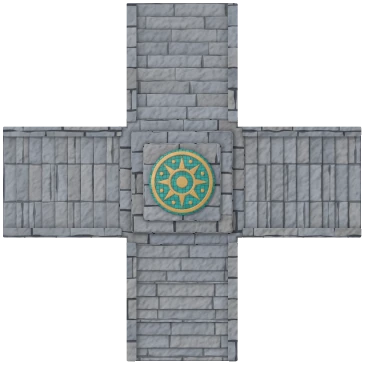
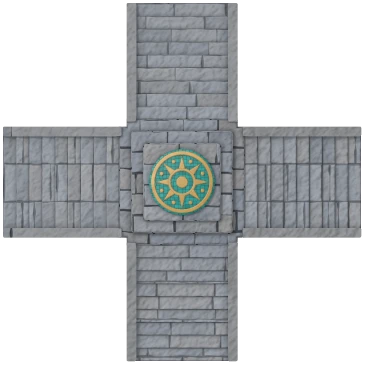
Mexica: the palace's stair walls in plain rough stone, without joints

diff --git a/games/mexica-ui/src/lib/board/palaceLight.ts b/games/mexica-ui/src/lib/board/palaceLight.ts
@@ -43,8 +43,9 @@ const STONE = {
 const COURSING: Coursing = { shortest: 10, longest: 16, row: 7, joint: 0.45, round: 0.9 }
 // A step's tread laid in long slabs.
 const TREADS: Coursing = { shortest: 13, longest: 20, row: 12.5, joint: 0.45, round: 0.9 }
-// A step's riser: one rough stone the width of the stair, so no joint chops the steps up.
-const RISERS: Coursing = { shortest: 200, longest: 200, row: 12.5, joint: 0.45, round: 0.9 }
+// Rough stone with no joints, for the steps' risers and the stair walls: blocks longer than
+// the palace, so no joint chops them up.
+const ROUGH: Coursing = { shortest: 300, longest: 300, row: 300, joint: 0.45, round: 0.9 }
 
 const BRONZE = { light: linear('#d6ab5e'), dark: linear('#6b4b22'), shine: 0.35 }
 const TURQUOISE = { light: linear('#2fb3ad'), dark: linear('#13706e'), grout: linear('#3a3226') }
@@ -105,7 +106,7 @@ function sunRelief(p: Vec): number {
 const WALL = { width: 3.2, above: 0.8, foot: 1.6 }
 const SIDE = CELL / 2 - PALACE.inset
 
-// The walls' stone is laid in courses their full height, round the palace's middle.
+// The walls' stone, round the palace's middle.
 const WALL_BLOCK: Block = {
     x0: -2 * CELL,
     x1: 2 * CELL,
@@ -213,14 +214,14 @@ export function renderPalace(tilt: number, pixels = PALACE_PIXELS): Bitmap {
             return { color, bent }
         }
         if (hit.kind === 'wall') {
-            const { color, bent } = stone(WALL_BLOCK, -2, COURSING)
+            const { color, bent } = stone(WALL_BLOCK, -2, ROUGH)
             return [{ color: scale(color, lit(p, normal, bent, scene)), alpha: 1 }]
         }
         const part = hit.part
         if (part === undefined) return [{ color: [0, 0, 0], alpha: 0 }]
         const stair = part.material === 'stair'
         const riser = stair && normal[2] <= 0.7
-        const coursing = riser ? RISERS : stair ? TREADS : COURSING
+        const coursing = riser ? ROUGH : stair ? TREADS : COURSING
         const { bent, color: cut } = stone(part.block, parts.indexOf(part), coursing)
         // Each step's tread paler and its riser in shade, so the stair reads.
         let color = cut
